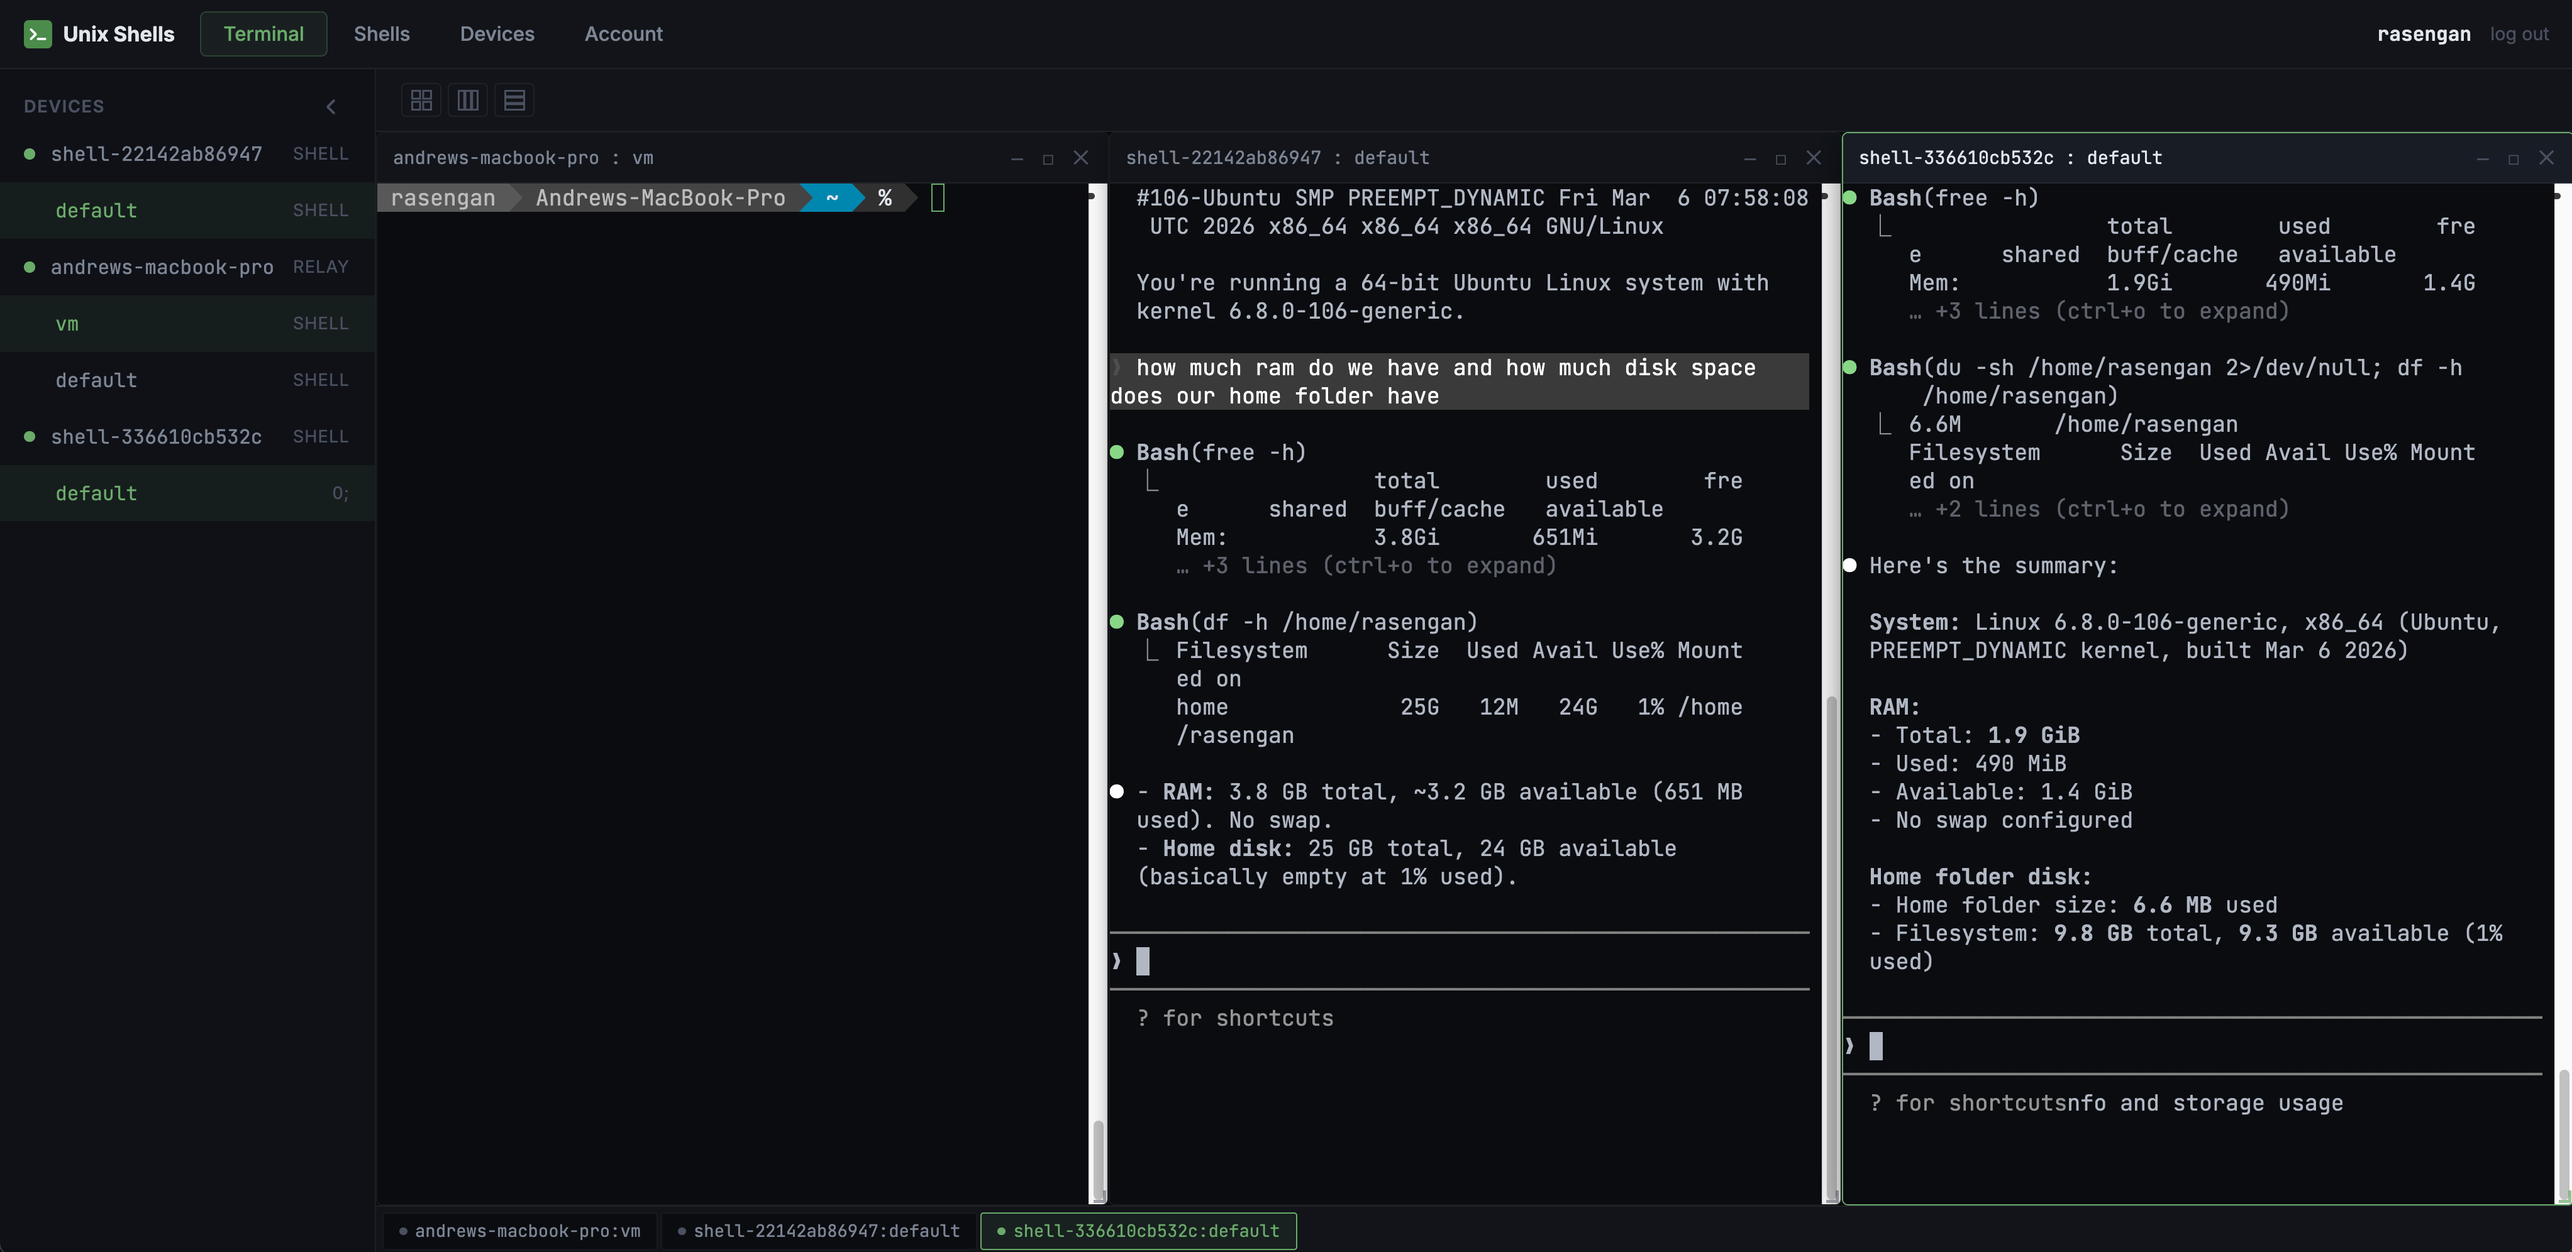
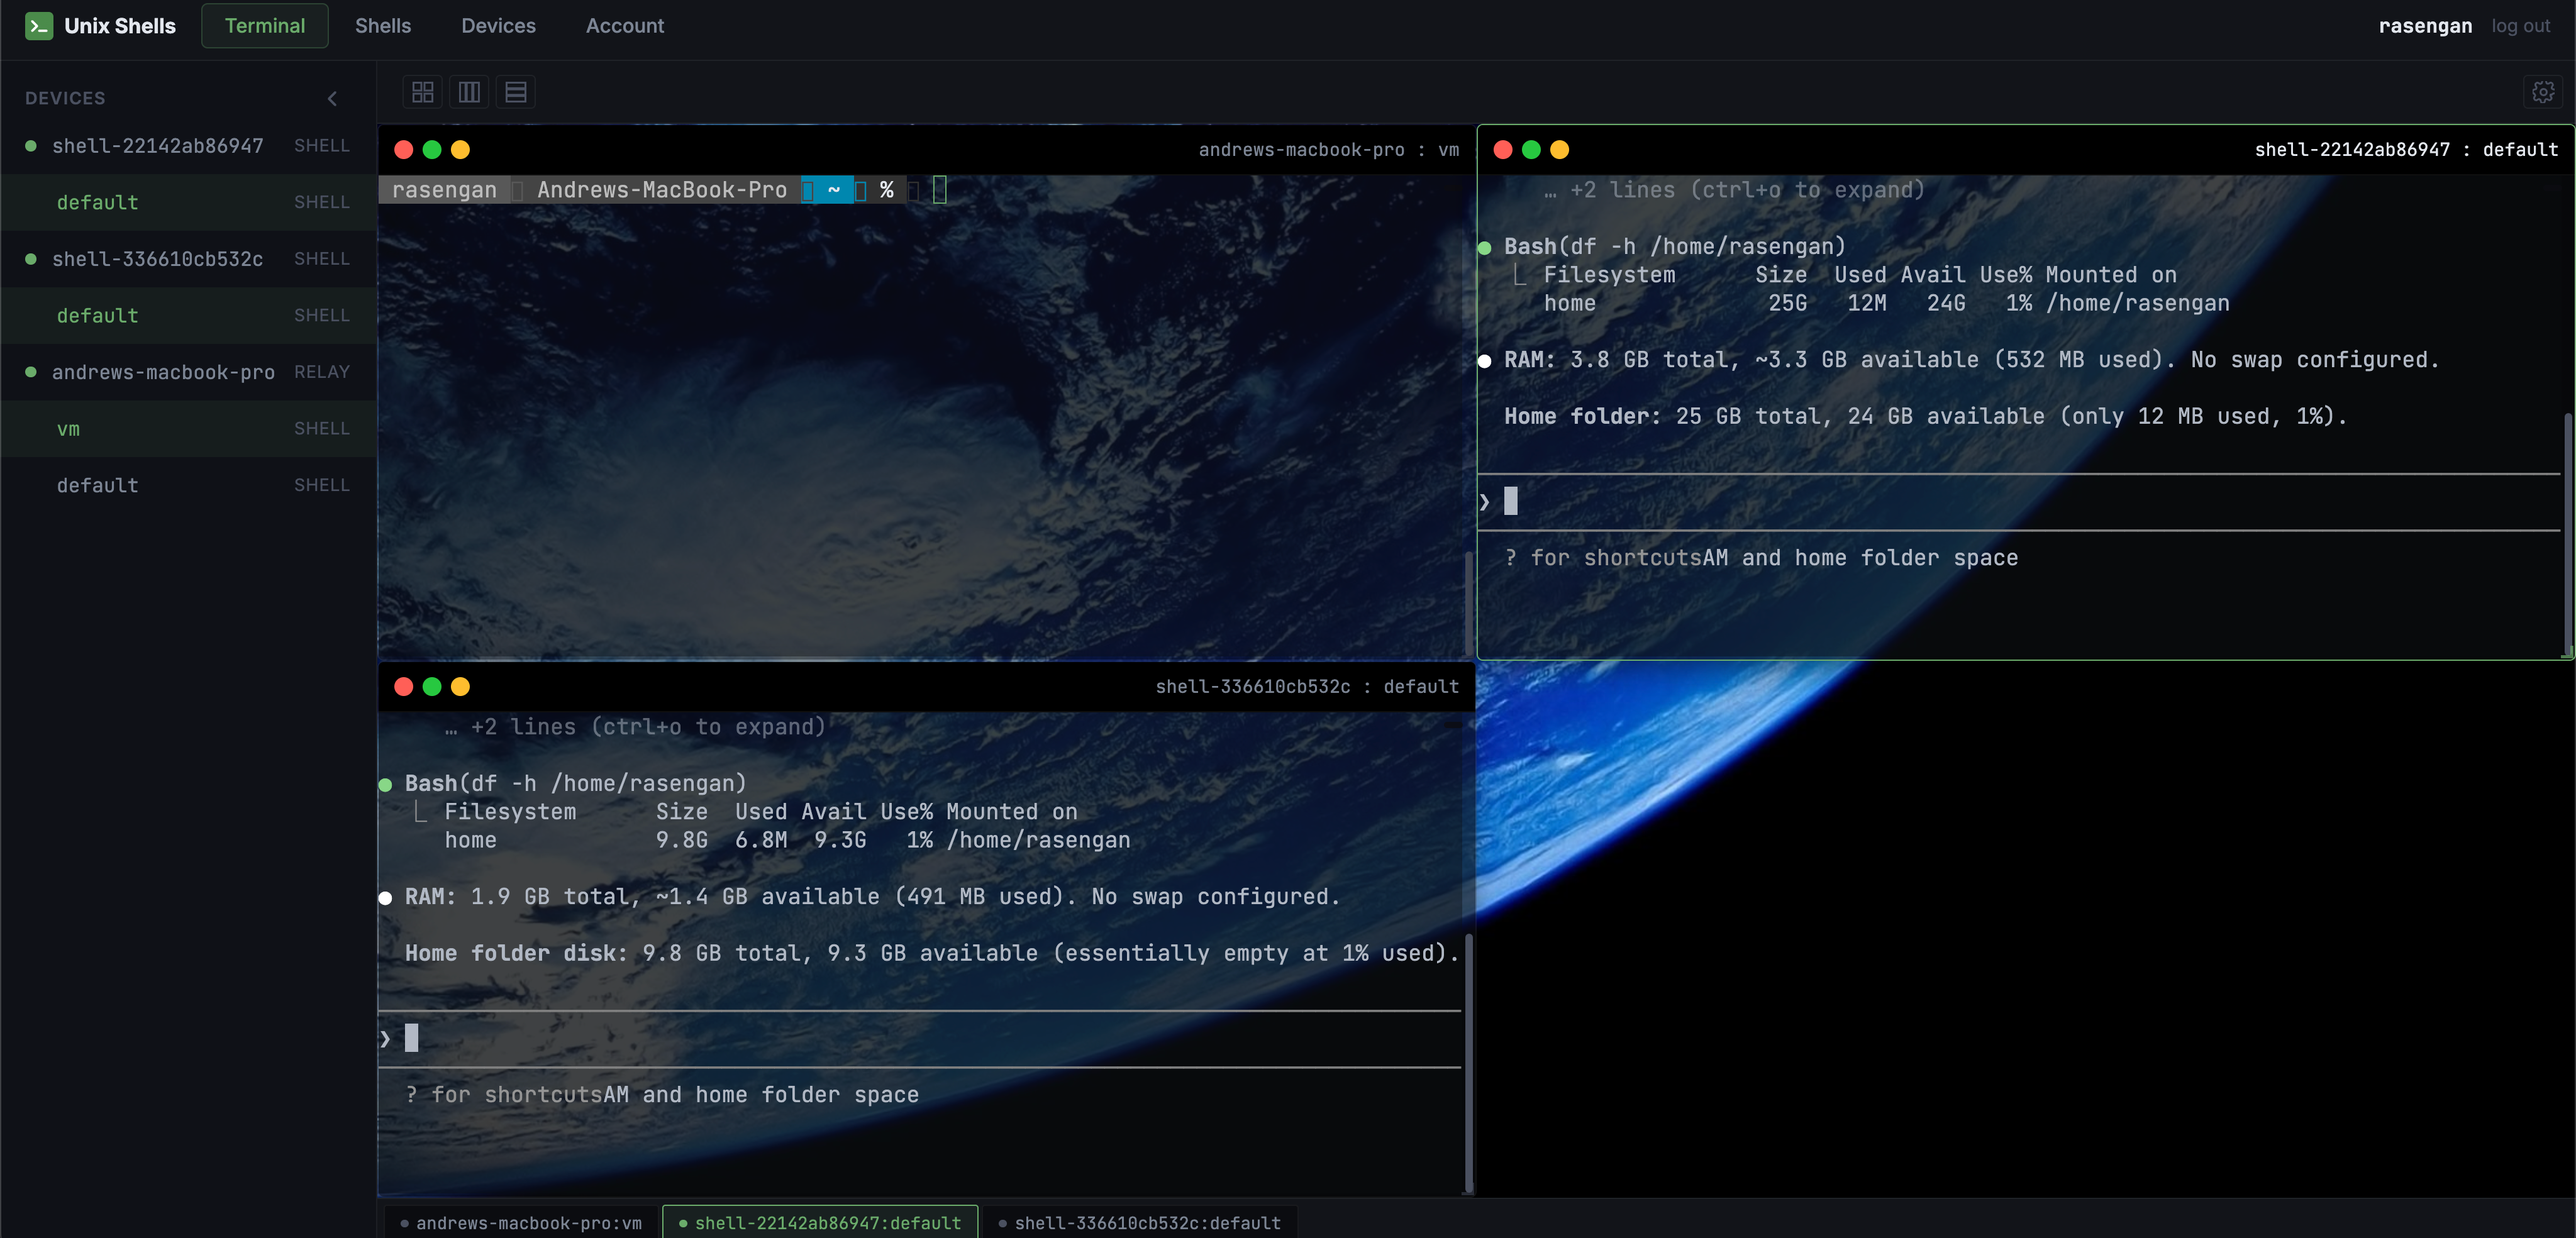
update terminal screenshot, add settings screenshot

diff --git a/profile/README.md b/profile/README.md
@@ -4,6 +4,8 @@ Linux VMs for developers and open-source tools for terminal access.
 
 ![Web Terminal](https://raw.githubusercontent.com/unixshells/.github/main/profile/terminal-ss.png)
 
+![Terminal Settings](https://raw.githubusercontent.com/unixshells/.github/main/profile/terminal-ss-settings.png)
+
 **[Shells](https://unixshells.com/shells)** — Full KVM virtual machines with Ubuntu 24.04, 200+ tools pre-installed, public IPv6, and dev preview URLs. Run Claude Code, Aider, or any AI coding agent in a persistent session. Connect from any terminal, browser, or phone.
 
 **[latch](https://github.com/unixshells/latch)** — Terminal multiplexer with built-in SSH server and web access. Like tmux, but you can SSH into it or open it in a browser. One binary, zero config. Use it standalone on any machine — with a public IP, Tailscale, or WireGuard, no relay needed.
